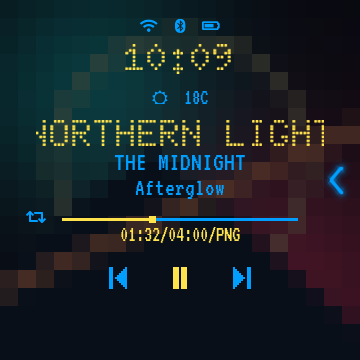
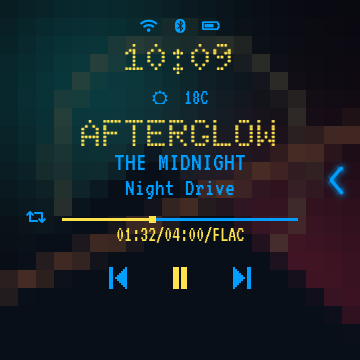
Keep library focus independent of theme flags and verify centred handle guidance

Changed region(s): [[0.0917, 0.3361, 0.9167, 0.4278], [0.3056, 0.6111, 0.6722, 0.6722], [0.3361, 0.4889, 0.6722, 0.55]]

diff --git a/ui/npfont.c b/ui/npfont.c
@@ -53,13 +53,19 @@ static void list_text_mode(lv_obj_t *row,int focused){
         if(lv_label_get_long_mode(l)!=want)lv_label_set_long_mode(l,want);
     }
 }
+static void library_row_focus(lv_event_t *e){list_text_mode(lv_event_get_target(e),1);}
+static int library_row_marked(lv_obj_t *row){
+    for(uint32_t i=0;i<lv_obj_get_event_count(row);i++)
+        if(lv_event_dsc_get_cb(lv_obj_get_event_dsc(row,i))==library_row_focus)return 1;
+    return 0;
+}
 static void list_focus_update(lv_timer_t *t){
     lv_obj_t *list=lv_timer_get_user_data(t);
     if(!lv_obj_is_visible(list))return;
     lv_obj_t *nearest=NULL;int distance=10000;
     for(uint32_t i=0;i<lv_obj_get_child_count(list);i++){
         lv_obj_t *r=lv_obj_get_child(list,i);
-        if(!lv_obj_has_flag(r,LV_OBJ_FLAG_USER_2) || lv_obj_has_flag(r,LV_OBJ_FLAG_HIDDEN))continue;
+        if(!library_row_marked(r) || lv_obj_has_flag(r,LV_OBJ_FLAG_HIDDEN))continue;
         lv_area_t a;lv_obj_get_coords(r,&a);
         if(a.y2<72 || a.y1>318)continue;
         int d=LV_ABS((a.y1+a.y2)/2-180);
@@ -68,7 +74,7 @@ static void list_focus_update(lv_timer_t *t){
     }
     for(uint32_t i=0;i<lv_obj_get_child_count(list);i++){
         lv_obj_t *r=lv_obj_get_child(list,i);
-        if(lv_obj_has_flag(r,LV_OBJ_FLAG_USER_2))list_text_mode(r,r==nearest);
+        if(library_row_marked(r))list_text_mode(r,r==nearest);
     }
 }
 static void list_watch_delete(lv_event_t *e){lv_timer_delete(lv_event_get_user_data(e));}
@@ -77,5 +83,5 @@ void ui_library_list_watch(lv_obj_t *list){
     lv_obj_add_event_cb(list,list_watch_delete,LV_EVENT_DELETE,timer);
 }
 void ui_library_row(lv_obj_t *row){
-    lv_obj_add_flag(row,LV_OBJ_FLAG_USER_2);list_text_mode(row,0);
+    lv_obj_add_event_cb(row,library_row_focus,LV_EVENT_FOCUSED,NULL);list_text_mode(row,0);
 }

diff --git a/ui/tests/host_render.c b/ui/tests/host_render.c
@@ -1017,6 +1017,11 @@ int main(int argc, char **argv){
             return 0;
         }
         if(getenv("HELP_KEY")){extern void settings_open_key(const char *);settings_open_key(getenv("HELP_KEY"));scr=SCR_SETTING_DETAIL;nav_wait(300);assert(screen_current()==SCR_SETTING_DETAIL);}
+        if(getenv("HANDLE_TIP")){
+            onboarding_reset();onboarding_start();onboarding_context(HINT_HANDLE);nav_wait(900);
+            lv_obj_t *tip=find_text(lv_layer_top(),onboarding_gesture_text(HINT_HANDLE));assert(tip);
+            lv_area_t a;lv_obj_get_coords(lv_obj_get_parent(tip),&a);assert(abs((a.y1+a.y2)/2-180)<3);
+        }
         if(getenv("HOWTO_PAGE")){
             lv_obj_t *root=screen_get_root(SCR_SETLIST),*list=NULL;
             for(uint32_t i=0;i<lv_obj_get_child_count(root);i++){
